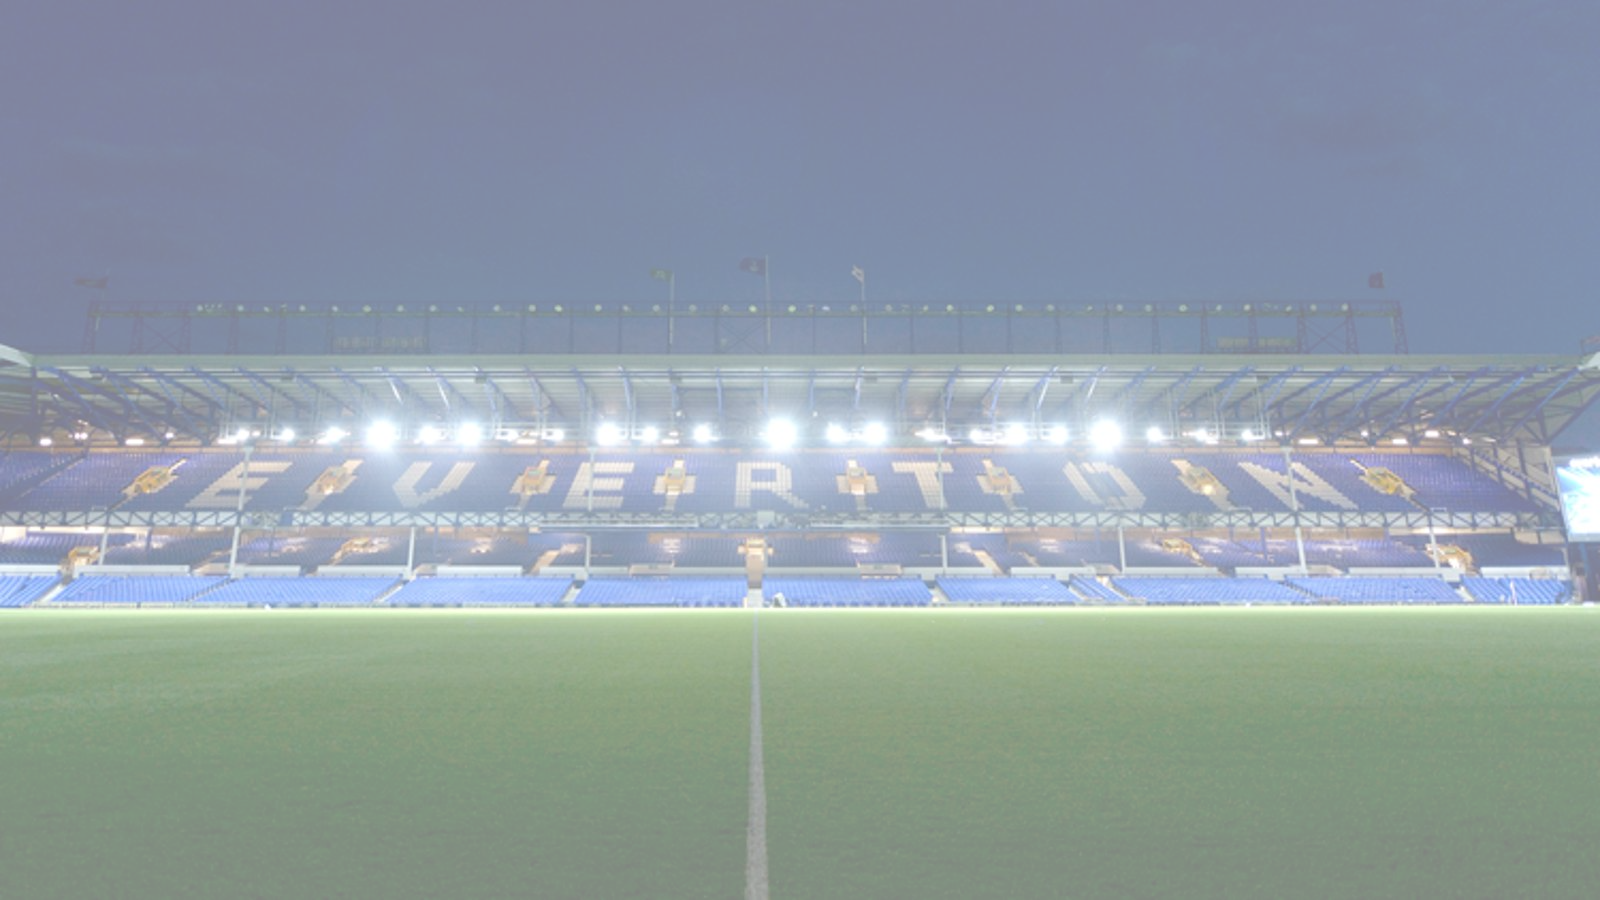
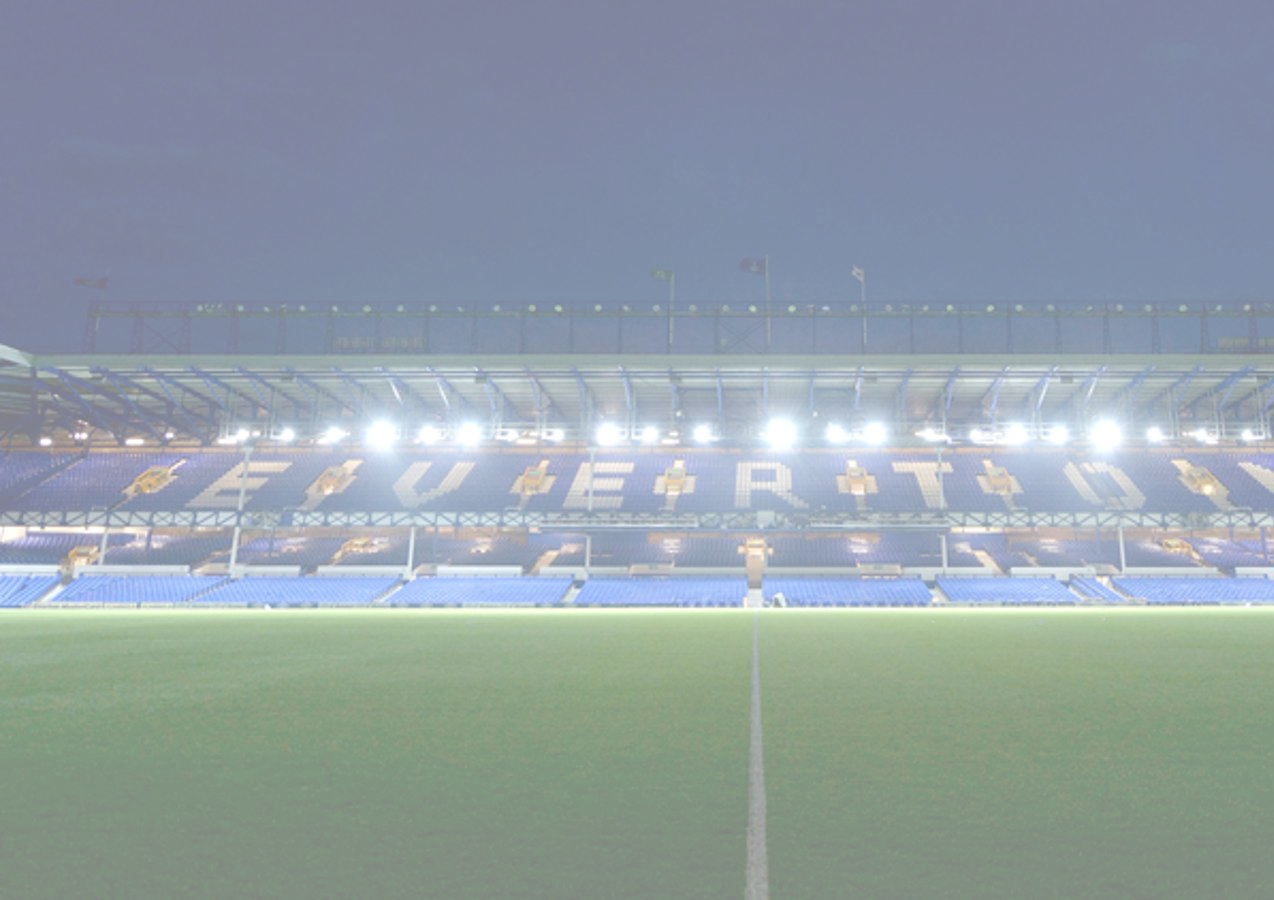
Rough grid for the stats and stuff. It's... ok so far. Will keep moving with it for a bit but still thinking of other approaches as well.

diff --git a/assets/reports/overview/overview.html b/assets/reports/overview/overview.html
@@ -4,9 +4,39 @@
     </head>
     <body>
         <div class="goodisonWrapper">
-            <div class="header"></div>
-            <div class="mainStats pitch"></div>
-            <div class="footer"></div>
+            <div class="header">
+                <div class="homeTeam">Brighton</div>
+                <div class="score">1 - 5</div>
+                <div class="awayTeam">Everton</div>
+            </div>
+            <div class="mainStats">
+                <div class="pitch">
+                    {{playersHere}}
+                </div>
+                <div class="matchEventsTable">
+                    <div class="eventsTitle">Match Events</div>
+                    <div class="teamEventsTitle">Brighton - Everton</div>
+                    <div class="events">
+                        <table>
+                            <tr>
+                                <td class="homeEvent"></td>
+                                <td class="awayEvent">Yellow Card - Onana</td>
+                            </tr>
+                            <tr>
+                                <td class="homeEvent"></td>
+                                <td class="awayEvent">Goal - McNeil</td>
+                            </tr>
+                            <tr>
+                                <td class="homeEvent">Goal - Mac Allister</td>
+                                <td class="awayEvent"></td>
+                            </tr>
+                        </table>
+                    </div>
+                </div>
+            </div>
+            <div class="footer">
+                High level stats here like referee rating and stuff
+            </div>
         </div>
     </body>
 </html>

diff --git a/assets/reports/overview/overview.css b/assets/reports/overview/overview.css
@@ -1,29 +1,61 @@
 .goodisonWrapper {
-    width: 1000px;
-    height: 1000px;
     background-image: url('../../other/goodisonPark.png');
-    background-size: contain;
+    background-size: cover;
     background-repeat: no-repeat;
+    width: 1082px;
     z-index: 0;
 }
 
 .header {
+    display: grid;
+    grid-template-columns: 440px 200px 440px;
+    grid-template-rows: 150px;
+}
 
+.homeTeam {
+    text-align: center;
+}
+
+.score {
+    text-align: center;
+}
+
+.awayTeam {
+    text-align: center;
 }
 
 .mainStats {
+    display: grid;
+    grid-template-columns: 640px 442px;
+    grid-template-rows: 400px;
+}
+
+.matchEventsTable {
 
 }
 
-.footer {
+.teamEventsTitle {
 
+}
+
+.homeEvent {
+    text-align: left;
+}
+.awayEvent {
+    text-align: right;
 }
 
 .pitch {
-    width: 320px;
-    height: 200px;
+    width: 640px;
+    height: 410px;
     background-image: url('../../other/pitch.svg');
     background-size: contain;
     z-index: 1;
     background-repeat: no-repeat;
+}
+
+.footer {
+    display: grid;
+    grid-template-columns: 541px 541px;
+    grid-template-rows: 180px;
 }
